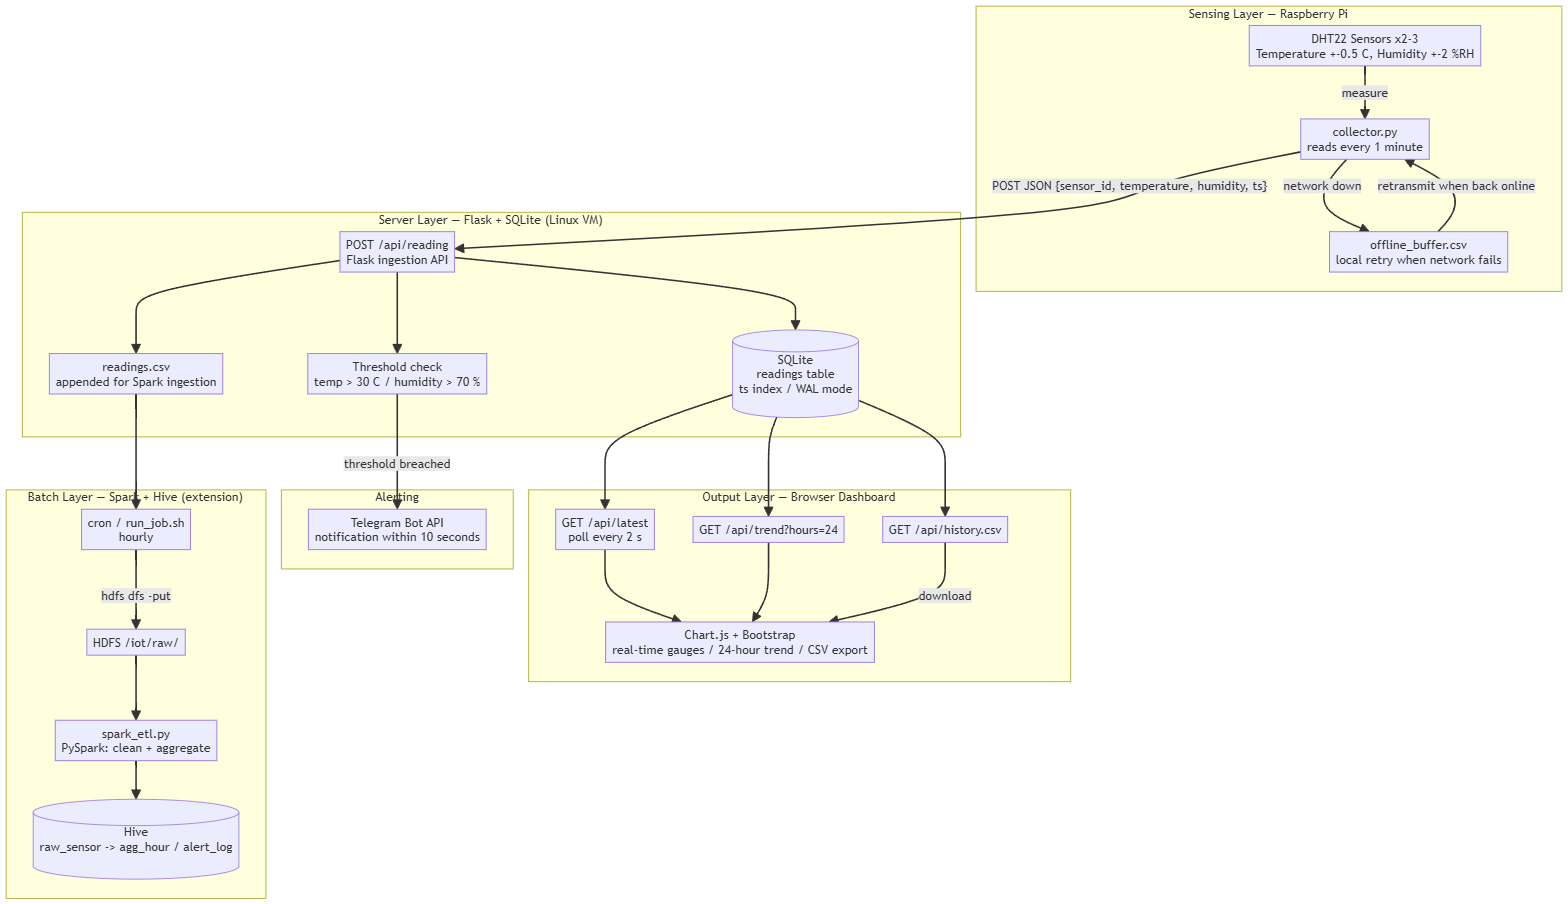
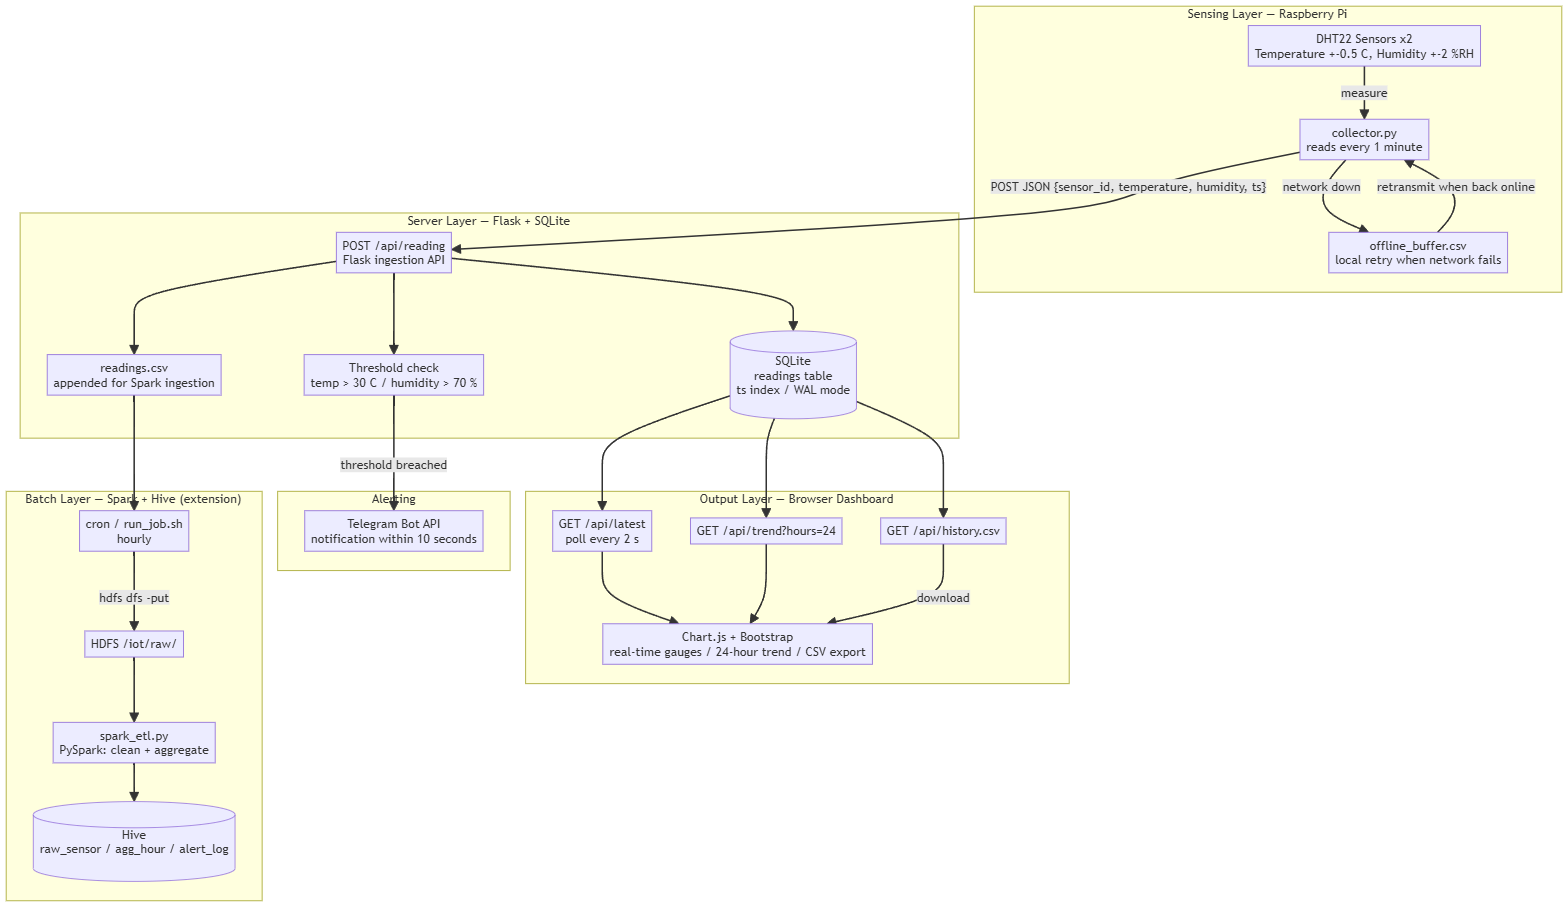
Add Spark/Hive ETL job and update data flow diagram
Add the PySpark ETL that aggregates sensor readings and writes to HDFS,
and refresh the architecture diagram (neutral server-layer label).

diff --git a/iot_monitor/server/spark/spark_etl.py b/iot_monitor/server/spark/spark_etl.py
@@ -1,0 +1,52 @@
+# -*- coding: utf-8 -*-
+"""Spark ETL (Plan A): read readings.csv, compute hourly aggregates,
+write the result to HDFS so Hive can query it via an external table."""
+from pyspark.sql import SparkSession
+from pyspark.sql.functions import avg, max as mx, min as mn, count as cnt
+from pyspark.sql.functions import col, date_format, to_timestamp
+from pyspark.sql.types import DoubleType
+
+spark = SparkSession.builder.appName("iot_etl").getOrCreate()
+
+# 1. read local CSV (copied from backend)
+df = spark.read.option("header", True).csv("file:///home/swb/readings.csv")
+
+# 2. rename + cast
+df = (df
+      .withColumnRenamed("timestamp", "ts")
+      .withColumnRenamed("temperature_c", "temperature")
+      .withColumnRenamed("humidity_rh", "humidity")
+      .withColumn("temperature", col("temperature").cast(DoubleType()))
+      .withColumn("humidity", col("humidity").cast(DoubleType())))
+
+# 3. clean
+df = df.filter(
+    col("temperature").isNotNull() & col("humidity").isNotNull() &
+    col("temperature").between(0, 50) & col("humidity").between(0, 100))
+
+print("清洗后行数:", df.count())
+
+# 4. hourly aggregates
+agg = (df
+       .withColumn("hour", date_format(
+           to_timestamp(col("ts"), "yyyy-MM-dd'T'HH:mm:ss'Z'"), "yyyy-MM-dd HH:00"))
+       .groupBy("sensor_id", "hour")
+       .agg(avg("temperature").alias("avg_temp"),
+            mx("temperature").alias("max_temp"),
+            mn("temperature").alias("min_temp"),
+            avg("humidity").alias("avg_hum"),
+            mx("humidity").alias("max_hum"),
+            mn("humidity").alias("min_hum"),
+            cnt("*").alias("cnt")))
+
+# 5. show sample
+print("=== agg_hour 示例（每传感器每小时）===")
+agg.orderBy("hour", "sensor_id").show(8, truncate=False)
+print("agg 总行数:", agg.count())
+
+# 6. write result to HDFS without header (cleaner for Hive external table)
+agg.write.mode("overwrite").csv(
+    "hdfs://localhost:9000/iot/agg_hour/")
+print("已写入 HDFS: /iot/agg_hour/")
+
+spark.stop()
